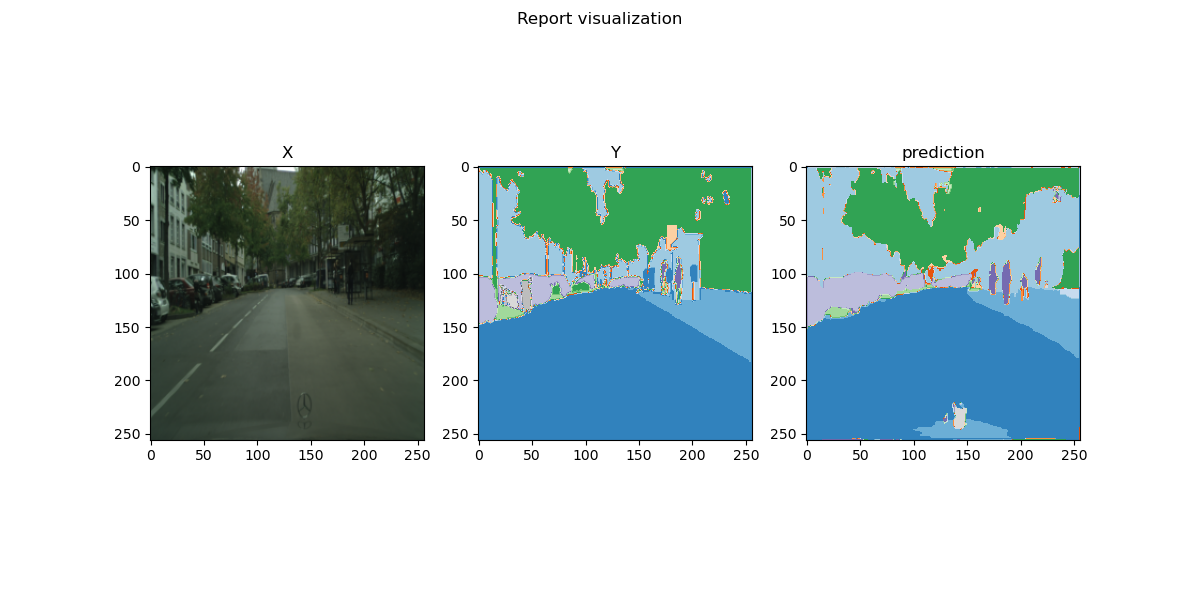
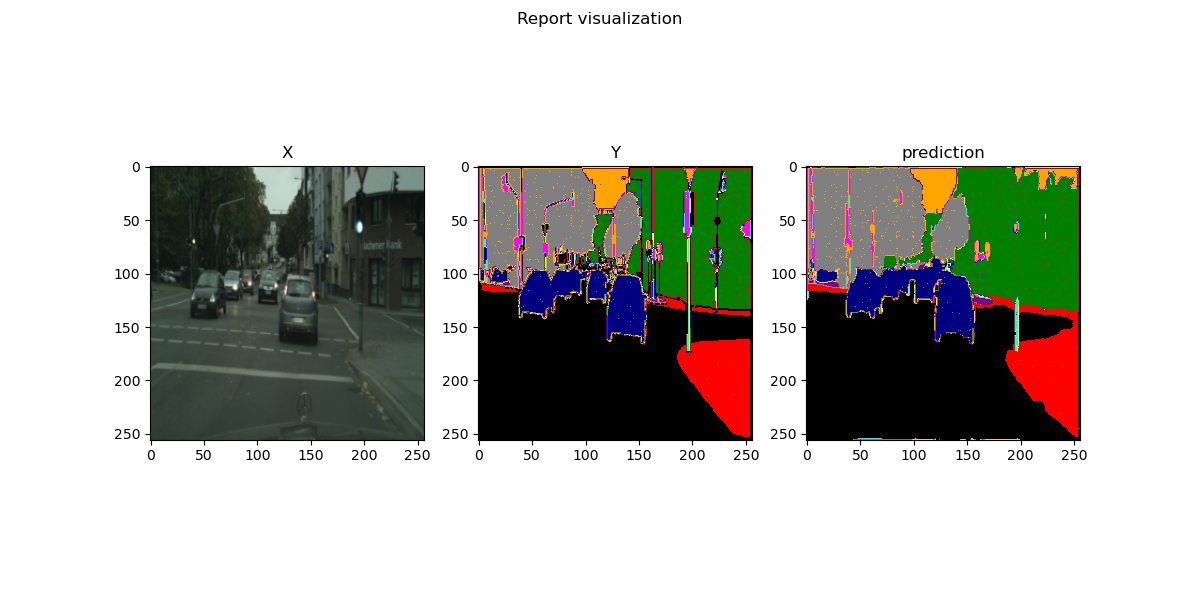
Training new model

diff --git a/model.py b/model.py
@@ -123,114 +123,138 @@ class SegNet(nn.Module):
         # Encode stage 1
         self.enc_1a = nn.Conv2d(3, 64, kernel_size=3, padding=1)
         self.enc_1b = nn.Conv2d(64, 64, kernel_size=3, padding=1)
-        self.norm_1 = nn.BatchNorm2d(64, momentum=0.5)
+        self.norm_enc_1a = nn.BatchNorm2d(64, momentum=0.5)
+        self.norm_enc_1b = nn.BatchNorm2d(64, momentum=0.5)
 
         # Encode stage 2
         self.enc_2a = nn.Conv2d(64, 128, kernel_size=3, padding=1)
         self.enc_2b = nn.Conv2d(128, 128, kernel_size=3, padding=1)
-        self.norm_2 = nn.BatchNorm2d(128, momentum=0.5)
+        self.norm_enc_2a = nn.BatchNorm2d(128, momentum=0.5)
+        self.norm_enc_2b = nn.BatchNorm2d(128, momentum=0.5)
 
         # Encode stage 3
         self.enc_3a = nn.Conv2d(128, 256, kernel_size=3, padding=1)
         self.enc_3b = nn.Conv2d(256, 256, kernel_size=3, padding=1)
-        self.norm_3 = nn.BatchNorm2d(256, momentum=0.5)
+        self.enc_3c = nn.Conv2d(256, 256, kernel_size=3, padding=1)
+        self.norm_enc_3a = nn.BatchNorm2d(256, momentum=0.5)
+        self.norm_enc_3b = nn.BatchNorm2d(256, momentum=0.5)
+        self.norm_enc_3c = nn.BatchNorm2d(256, momentum=0.5)
         
         # Encode stage 4
         self.enc_4a = nn.Conv2d(256, 512, kernel_size=3, padding=1)
         self.enc_4b = nn.Conv2d(512, 512, kernel_size=3, padding=1)
-        self.norm_4 = nn.BatchNorm2d(512, momentum=0.5)
+        self.enc_4c = nn.Conv2d(512, 512, kernel_size=3, padding=1)
+        self.norm_enc_4a = nn.BatchNorm2d(512, momentum=0.5)
+        self.norm_enc_4b = nn.BatchNorm2d(512, momentum=0.5)
+        self.norm_enc_4c = nn.BatchNorm2d(512, momentum=0.5)
 
         # Encode stage 5
         self.enc_5a = nn.Conv2d(512, 512, kernel_size=3, padding=1)
         self.enc_5b = nn.Conv2d(512, 512, kernel_size=3, padding=1)
-        self.norm_5 = nn.BatchNorm2d(512, momentum=0.5) 
+        self.enc_5c = nn.Conv2d(512, 512, kernel_size=3, padding=1)
+        self.norm_enc_5a = nn.BatchNorm2d(512, momentum=0.5)
+        self.norm_enc_5b = nn.BatchNorm2d(512, momentum=0.5)
+        self.norm_enc_5c = nn.BatchNorm2d(512, momentum=0.5) 
 
         # Decode stage 5    
         self.dec_5a = nn.Conv2d(2*512, 512, kernel_size=3, padding=1)
         self.dec_5b = nn.Conv2d(512, 512, kernel_size=3, padding=1)
+        self.dec_5c = nn.Conv2d(512, 512, kernel_size=3, padding=1)
+        self.norm_dec_5a = nn.BatchNorm2d(512, momentum=0.5)
+        self.norm_dec_5b = nn.BatchNorm2d(512, momentum=0.5)
+        self.norm_dec_5c = nn.BatchNorm2d(512, momentum=0.5) 
 
         # Decode stage 4    
         self.dec_4a = nn.Conv2d(2*512, 512, kernel_size=3, padding=1)
         self.dec_4b = nn.Conv2d(512, 512, kernel_size=3, padding=1)
         self.dec_4c = nn.Conv2d(512, 256, kernel_size=3, padding=1)
+        self.norm_dec_4a = nn.BatchNorm2d(512, momentum=0.5)
+        self.norm_dec_4b = nn.BatchNorm2d(512, momentum=0.5)
+        self.norm_dec_4c = nn.BatchNorm2d(256, momentum=0.5)
 
         # Decode stage 3    
         self.dec_3a = nn.Conv2d(2*256, 256, kernel_size=3, padding=1)
         self.dec_3b = nn.Conv2d(256, 256, kernel_size=3, padding=1)
         self.dec_3c = nn.Conv2d(256, 128, kernel_size=3, padding=1)
+        self.norm_dec_3a = nn.BatchNorm2d(256, momentum=0.5)
+        self.norm_dec_3b = nn.BatchNorm2d(256, momentum=0.5)
+        self.norm_dec_3c = nn.BatchNorm2d(128, momentum=0.5)
 
         # Decode stage 2    
         self.dec_2a = nn.Conv2d(2*128, 128, kernel_size=3, padding=1)
         self.dec_2b = nn.Conv2d(128, 64, kernel_size=3, padding=1)
+        self.norm_dec_2a = nn.BatchNorm2d(128, momentum=0.5)
+        self.norm_dec_2b = nn.BatchNorm2d(64, momentum=0.5)
 
         # Decode stage 1    
         self.dec_1a = nn.Conv2d(2*64, 64, kernel_size=3, padding=1)
-        self.dec_1b = nn.Conv2d(64, 34, kernel_size=3, padding=1)     
+        self.dec_1b = nn.Conv2d(64, 34, kernel_size=3, padding=1)
+        self.norm_dec_1 = nn.BatchNorm2d(64, momentum=0.5)     
 
     def forward(self, x):
         # Encode stage 1
-        x = function.relu(self.norm_1(self.enc_1a(x))) 
-        x1 = function.relu(self.norm_1(self.enc_1b(x))) 
+        x = function.relu(self.norm_enc_1a(self.enc_1a(x))) 
+        x1 = function.relu(self.norm_enc_1b(self.enc_1b(x))) 
         x, ind1 = self.pool(x1)
         size1 = x.size()
 
         # Encode stage 2
-        x = function.relu(self.norm_2(self.enc_2a(x))) 
-        x2 = function.relu(self.norm_2(self.enc_2b(x))) 
+        x = function.relu(self.norm_enc_2a(self.enc_2a(x))) 
+        x2 = function.relu(self.norm_enc_2b(self.enc_2b(x))) 
         x, ind2 = self.pool(x2)
         size2 = x.size()
 
         # Encode stage 3
-        x = function.relu(self.norm_3(self.enc_3a(x))) 
-        x = function.relu(self.norm_3(self.enc_3b(x))) 
-        x3 = function.relu(self.norm_3(self.enc_3b(x)))
+        x = function.relu(self.norm_enc_3a(self.enc_3a(x))) 
+        x = function.relu(self.norm_enc_3b(self.enc_3b(x))) 
+        x3 = function.relu(self.norm_enc_3c(self.enc_3c(x)))
         x, ind3 = self.pool(x3)
         size3 = x.size()
 
         # Encode stage 4
-        x = function.relu(self.norm_4(self.enc_4a(x))) 
-        x = function.relu(self.norm_4(self.enc_4b(x))) 
-        x4 = function.relu(self.norm_4(self.enc_4b(x)))
+        x = function.relu(self.norm_enc_4a(self.enc_4a(x))) 
+        x = function.relu(self.norm_enc_4b(self.enc_4b(x))) 
+        x4 = function.relu(self.norm_enc_4c(self.enc_4c(x)))
         x, ind4 = self.pool(x4)
         size4 = x.size()
 
         # Encode stage 5
-        x = function.relu(self.norm_5(self.enc_5a(x))) 
-        x = function.relu(self.norm_5(self.enc_5b(x))) 
-        x5 = function.relu(self.norm_5(self.enc_5b(x)))
+        x = function.relu(self.norm_enc_5a(self.enc_5a(x))) 
+        x = function.relu(self.norm_enc_5b(self.enc_5b(x))) 
+        x5 = function.relu(self.norm_enc_5c(self.enc_5c(x)))
         x, ind5 = self.pool(x5)
 
         # Decode Stage 5
         x = self.unpool(x, ind5, output_size=size4)
         x = torch.cat([x, x5], axis=1)
-        x = function.relu(self.norm_5(self.dec_5a(x)))
-        x = function.relu(self.norm_5(self.dec_5b(x)))
-        x = function.relu(self.norm_5(self.dec_5b(x)))
+        x = function.relu(self.norm_dec_5a(self.dec_5a(x)))
+        x = function.relu(self.norm_dec_5b(self.dec_5b(x)))
+        x = function.relu(self.norm_dec_5c(self.dec_5c(x)))
 
         # Decode Stage 4
         x = self.unpool(x, ind4, output_size=size3)
         x = torch.cat([x, x4], axis=1)
-        x = function.relu(self.norm_4(self.dec_4a(x)))
-        x = function.relu(self.norm_4(self.dec_4b(x)))
-        x = function.relu(self.norm_3(self.dec_4c(x)))
+        x = function.relu(self.norm_dec_4a(self.dec_4a(x)))
+        x = function.relu(self.norm_dec_4b(self.dec_4b(x)))
+        x = function.relu(self.norm_dec_4c(self.dec_4c(x)))
 
         # Decode Stage 3
         x = self.unpool(x, ind3, output_size=size2)
         x = torch.cat([x, x3], axis=1)
-        x = function.relu(self.norm_3(self.dec_3a(x)))
-        x = function.relu(self.norm_3(self.dec_3b(x)))
-        x = function.relu(self.norm_2(self.dec_3c(x)))
+        x = function.relu(self.norm_dec_3a(self.dec_3a(x)))
+        x = function.relu(self.norm_dec_3b(self.dec_3b(x)))
+        x = function.relu(self.norm_dec_3c(self.dec_3c(x)))
 
         # Decode Stage 2
         x = self.unpool(x, ind2, output_size=size1)
         x = torch.cat([x, x2], axis=1)
-        x = function.relu(self.norm_2(self.dec_2a(x)))
-        x = function.relu(self.norm_1(self.dec_2b(x)))
+        x = function.relu(self.norm_dec_2a(self.dec_2a(x)))
+        x = function.relu(self.norm_dec_2b(self.dec_2b(x)))
 
         # Decode Stage 1
         x = self.unpool(x, ind1)
         x = torch.cat([x, x1], axis=1)
-        x = function.relu(self.norm_1(self.dec_1a(x)))
+        x = function.relu(self.norm_dec_1(self.dec_1a(x)))
         x = self.dec_1b(x)
 
         return x   

diff --git a/train.py b/train.py
@@ -8,6 +8,7 @@ from argparse import ArgumentParser
 from torch.utils.data import DataLoader, random_split
 import torch.nn as nn
 import torch
+from matplotlib.colors import ListedColormap, BoundaryNorm
 from model import SegNet, Unet, Efficiency_model
 import os
 import numpy as np
@@ -88,7 +89,7 @@ def main(args):
 
     # define optimizer and loss function (don't forget to ignore class index 255)
     criterion = torch.nn.CrossEntropyLoss(ignore_index=255).to(device)
-    optimizer = torch.optim.Adam(model.parameters(), lr=0.0001)#, weight_decay=0.0001)
+    optimizer = torch.optim.Adam(model.parameters(), lr=0.0001, weight_decay=0.0001)
     scheduler = torch.optim.lr_scheduler.StepLR(optimizer, 0.9)
 
     # training/validation loop
@@ -127,7 +128,7 @@ def main(args):
         print("Average validation loss of epoch " + str(i+1) + ": " + str(float(val_loss_epoch)/val_size))
 
     # save model
-    torch.save(model.state_dict(), 'SegNet test submission')
+    torch.save(model.state_dict(), 'SegNet model')
 
     # visualize training data
     plt.plot(range(1, epochs+1), train_loss, color='r', label='train loss')
@@ -136,7 +137,7 @@ def main(args):
     plt.ylabel("Loss")
     plt.title("Loss of neural network")
     plt.legend()
-    plt.savefig('Train performance of Unet single batch anti overfit')
+    plt.savefig('Train performance of SegNet model')
 
     pass
 
@@ -171,11 +172,20 @@ def preprocess(img):
     return img
 
 def visualize():
-    model_SegNet = Unet()
-    model_SegNet.load_state_dict(torch.load("models\\Original_model_25_epoch"))
+    model_SegNet = SegNet()
+    model_SegNet.load_state_dict(torch.load("models\\SegNet model"))
+    model_SegNet.eval()
 
     model_Unet = Unet()
-    model_Unet.load_state_dict(torch.load("models\\Unet single batch anti overfit"))
+    model_Unet.load_state_dict(torch.load("models\\Original_model_25_epoch"))
+    model_Unet.eval()
+
+    # Define your custom colormap for specific color for each number
+    colors = ['black', 'red', 'green', 'blue', 'yellow', 'cyan', 'magenta', 'orange', 'gray', 'purple', 
+              'orange', 'pink', 'olive', 'navy', 'teal', 'coral', 'lime', 'indigo', 'peru']
+    custom_cmap = ListedColormap(colors)
+    bounds = np.arange(len(colors) + 1)
+    norm = BoundaryNorm(bounds, len(colors))
 
     # define transform
     regular_transform = transforms.Compose([transforms.Resize((256, 256)),
@@ -192,15 +202,17 @@ def visualize():
         #X = preprocess(X)
         prediction_Segnet = model_SegNet(X)
         processed_SegNet = postprocess(prediction_Segnet, shape=(1024, 2048))
+        print("Unique classes in SegNet prediction: ", np.unique(processed_SegNet))
 
         prediction_Unet = model_Unet(X)
         processed_Unet = postprocess(prediction_Unet, shape=(1024, 2048))
+        print("Unique classes in Unet prediction:   ", np.unique(processed_Unet))
 
         fig, axs = plt.subplots(1, 2, figsize=(12, 6))  # 1 row, 2 columns
-        axs[0].imshow(processed_SegNet, cmap='tab20c')
-        axs[0].set_title('Unet')
-        axs[1].imshow(processed_Unet, cmap='tab20c')
-        axs[1].set_title('Unet single batch')
+        axs[0].imshow(processed_SegNet, cmap=custom_cmap, norm=norm)
+        axs[0].set_title('SegNet')
+        axs[1].imshow(processed_Unet, cmap=custom_cmap, norm=norm)
+        axs[1].set_title('Unet')
         fig.suptitle('Segmentation')
         plt.savefig("Images\\segmented images of Unet and SegNet model.png")
         break
@@ -210,6 +222,13 @@ def visualize_report():
     model.load_state_dict(torch.load("models\\Original_model_25_epoch"))
     mean = [0.485, 0.456, 0.406]
     std = [0.229, 0.224, 0.225]
+    
+    # Define your custom colormap for specific color for each number
+    colors = ['black', 'red', 'green', 'blue', 'yellow', 'cyan', 'magenta', 'orange', 'gray', 'purple', 
+              'orange', 'pink', 'olive', 'navy', 'teal', 'coral', 'lime', 'indigo', 'peru']
+    custom_cmap = ListedColormap(colors)
+    bounds = np.arange(len(colors) + 1)
+    norm = BoundaryNorm(bounds, len(colors))
 
     # define transform
     regular_transform = transforms.Compose([transforms.Resize((256, 256)),
@@ -236,9 +255,9 @@ def visualize_report():
 
         axs[0].imshow(X)
         axs[0].set_title('X')
-        axs[1].imshow(Y, cmap='tab20c')
+        axs[1].imshow(Y, cmap=custom_cmap, norm=norm)
         axs[1].set_title('Y')
-        axs[2].imshow(processed, cmap='tab20c')
+        axs[2].imshow(processed, cmap=custom_cmap, norm=norm)
         axs[2].set_title('prediction')
         fig.suptitle('Report visualization')
         plt.savefig("Images\\Report visualization.png")
